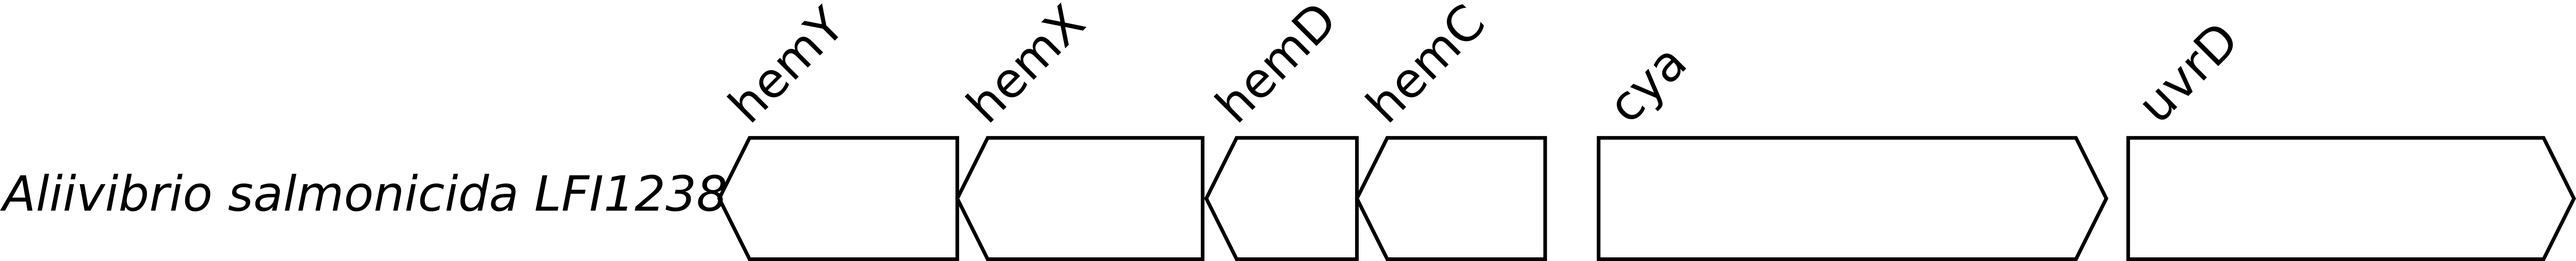
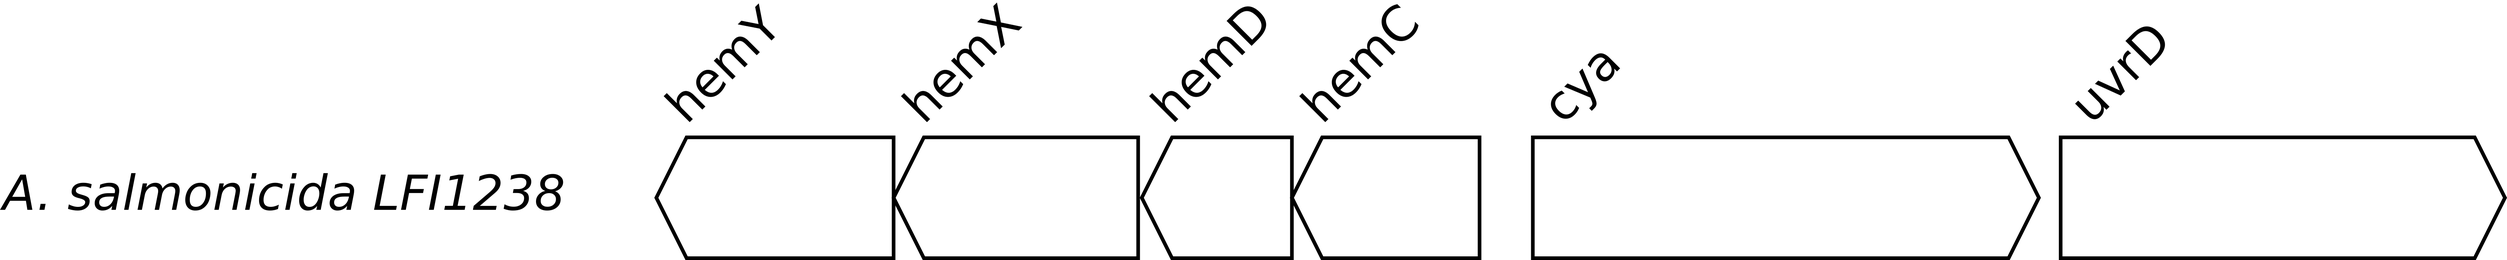
cds2svg.py update

diff --git a/GeneSVG/cds2svg.py b/GeneSVG/cds2svg.py
@@ -30,7 +30,7 @@ def set_coordinates(cds_table,organism,start):
     """Extracts required coordinates for svg paths"""
 
     arrow_data=[]
-    x0=len(organism)*20
+    x0=len(organism)*25
     xshift=int(start)//6-x0
     for i,p in enumerate(cds_table):
         cds_start=p.split(';')[0]
